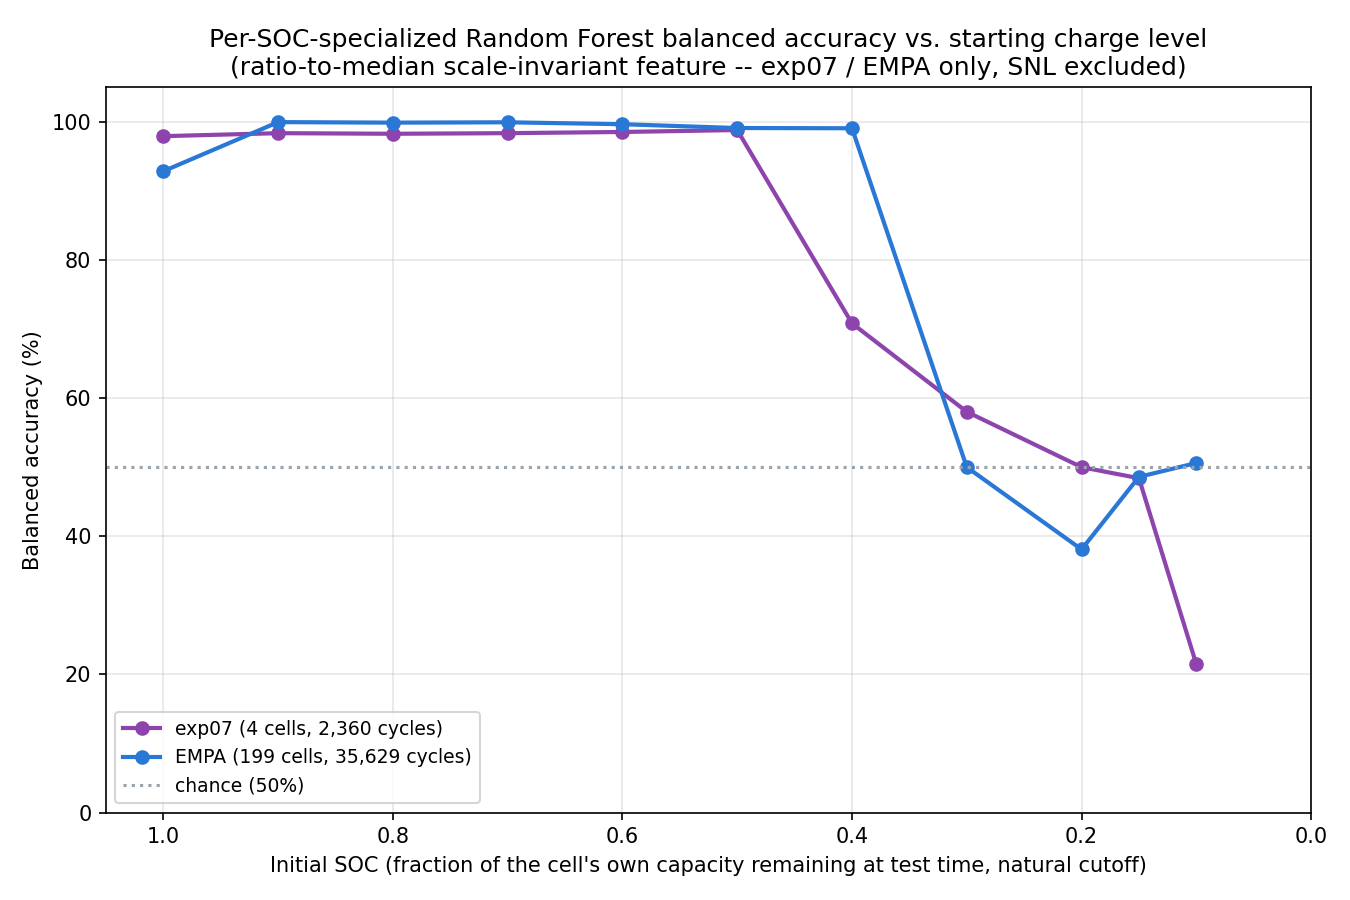
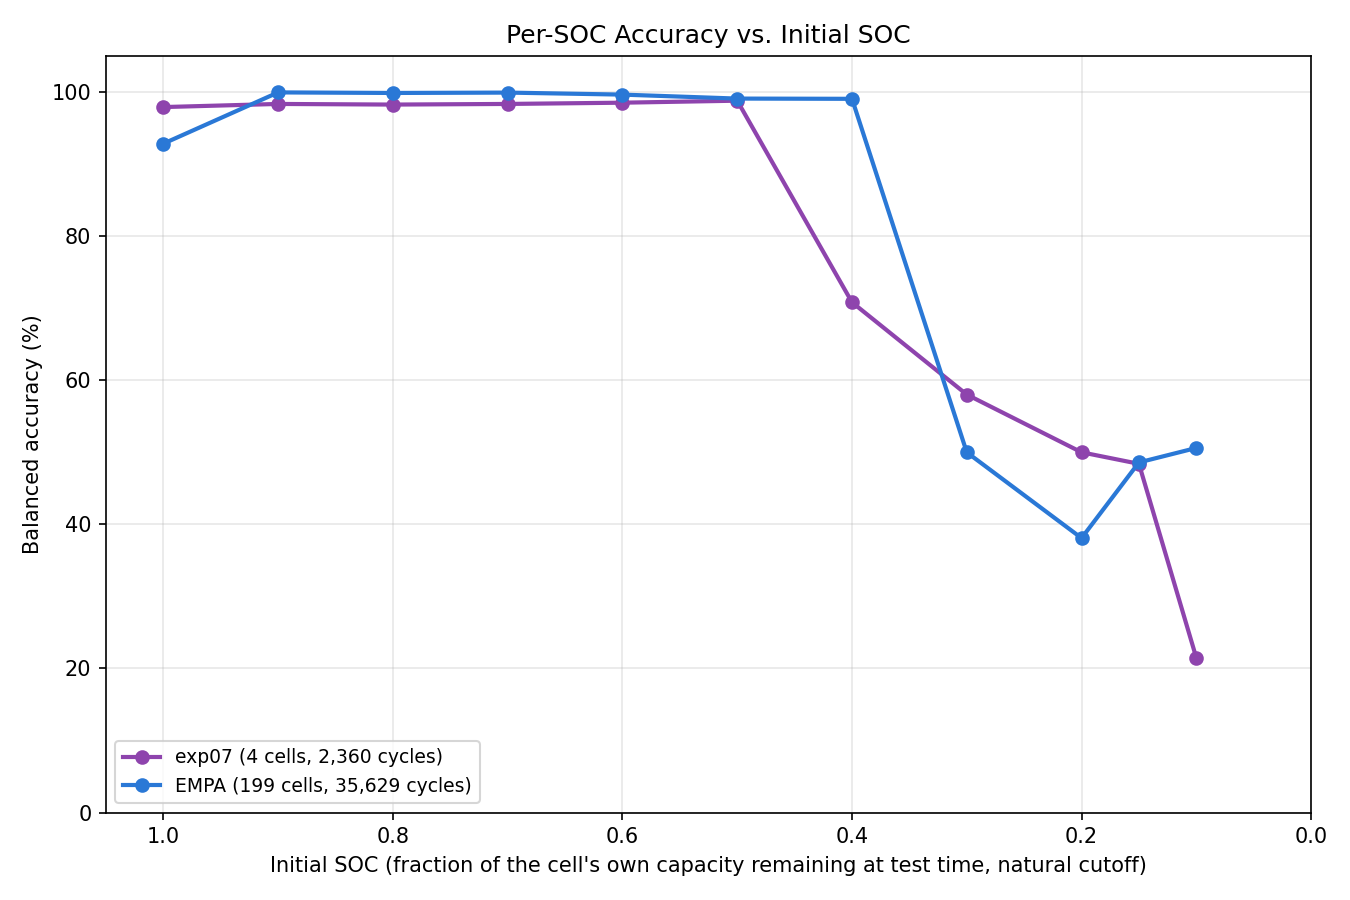
Simplify per_soc_accuracy_ratio_to_median.png's title, drop chance line
Matches the simpler header style just applied to
optimize_empa/experiment/06's plot: single-line title, no "chance
(50%)" legend entry. Regenerated from the existing
per_soc_results_ratio_to_median.json, no re-evaluation needed.

diff --git a/experiments/32_fixed_voltage_cutoff_soc_sweep/evaluation_ratio_to_median/make_per_soc_plot_ratio_to_median.py b/experiments/32_fixed_voltage_cutoff_soc_sweep/evaluation_ratio_to_median/make_per_soc_plot_ratio_to_median.py
@@ -53,12 +53,9 @@ def main():
         ax.plot(SOC_START_POINTS, rf_y, color=style["color"], linestyle="-", marker="o",
                 linewidth=2, markersize=6, label=label)
 
-    ax.axhline(50, color="#9AA4AC", linestyle=":", linewidth=1.5, label="chance (50%)")
-
     ax.set_xlabel("Initial SOC (fraction of the cell's own capacity remaining at test time, natural cutoff)")
     ax.set_ylabel("Balanced accuracy (%)")
-    ax.set_title("Per-SOC-specialized Random Forest balanced accuracy vs. starting charge level\n"
-                 "(ratio-to-median scale-invariant feature -- exp07 / EMPA only, SNL excluded)")
+    ax.set_title("Per-SOC Accuracy vs. Initial SOC")
     ax.set_xlim(1.05, 0.0)
     ax.set_ylim(0, 105)
     ax.grid(True, alpha=0.3)
